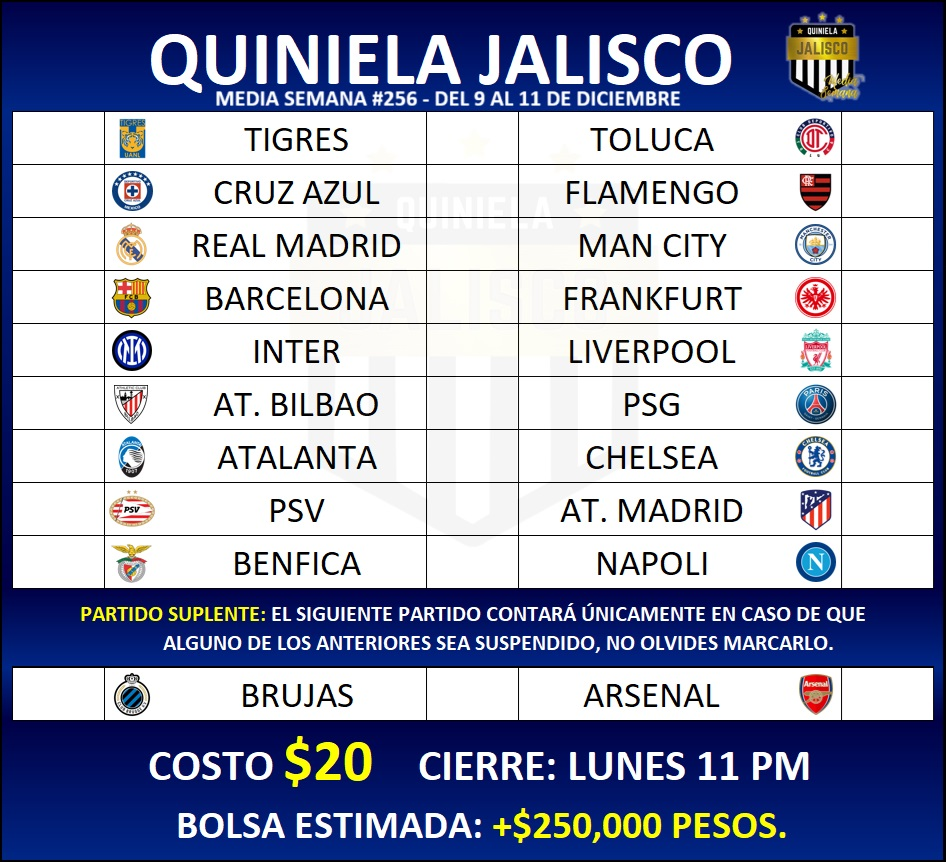
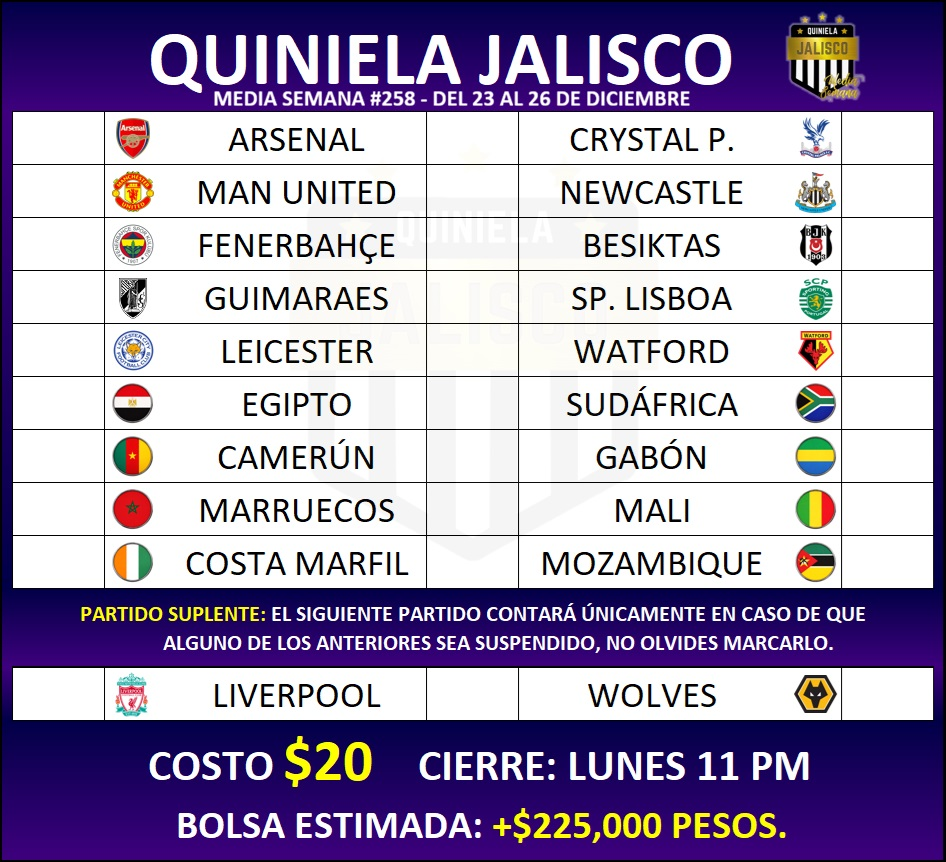
Media Semana #258

diff --git a/MediaSemana/stylesmSusp.css b/MediaSemana/stylesmSusp.css
@@ -16,7 +16,7 @@ body{
 
 .quiniela{
     margin: auto;
-    background-image: url("IMG_9732.png");
+    background-image: url("quinielamSusp.jpg");
     background-size: 100%;
     background-repeat: no-repeat;
     max-width: 400px;
@@ -94,8 +94,8 @@ body{
     margin-top: 9%;
     border: solid 1px black;
     border-radius: 0 0 14px 14px;
-    background: -webkit-linear-gradient(0.49turn, rgb(0,71,22) -7%, rgb(0 6 82) 80%);
-    background: linear-gradient(0.49turn, rgb(0,71,22) -7%, rgb(0 6 82) 80%);
+    background: -webkit-linear-gradient(0.49turn, rgb(40,0,110) -7%, rgb(0 6 82) 80%);
+    background: linear-gradient(0.49turn, rgb(40,0,110) -7%, rgb(0 6 82) 80%);
 }
 
 .text-lg{
@@ -296,7 +296,7 @@ h6{
 }
 
 #cantidad:before{
-    content:' +$250,000 pesos';
+    content:' +$225,000 pesos';
     color: yellow;
     white-space:pre;
 }
